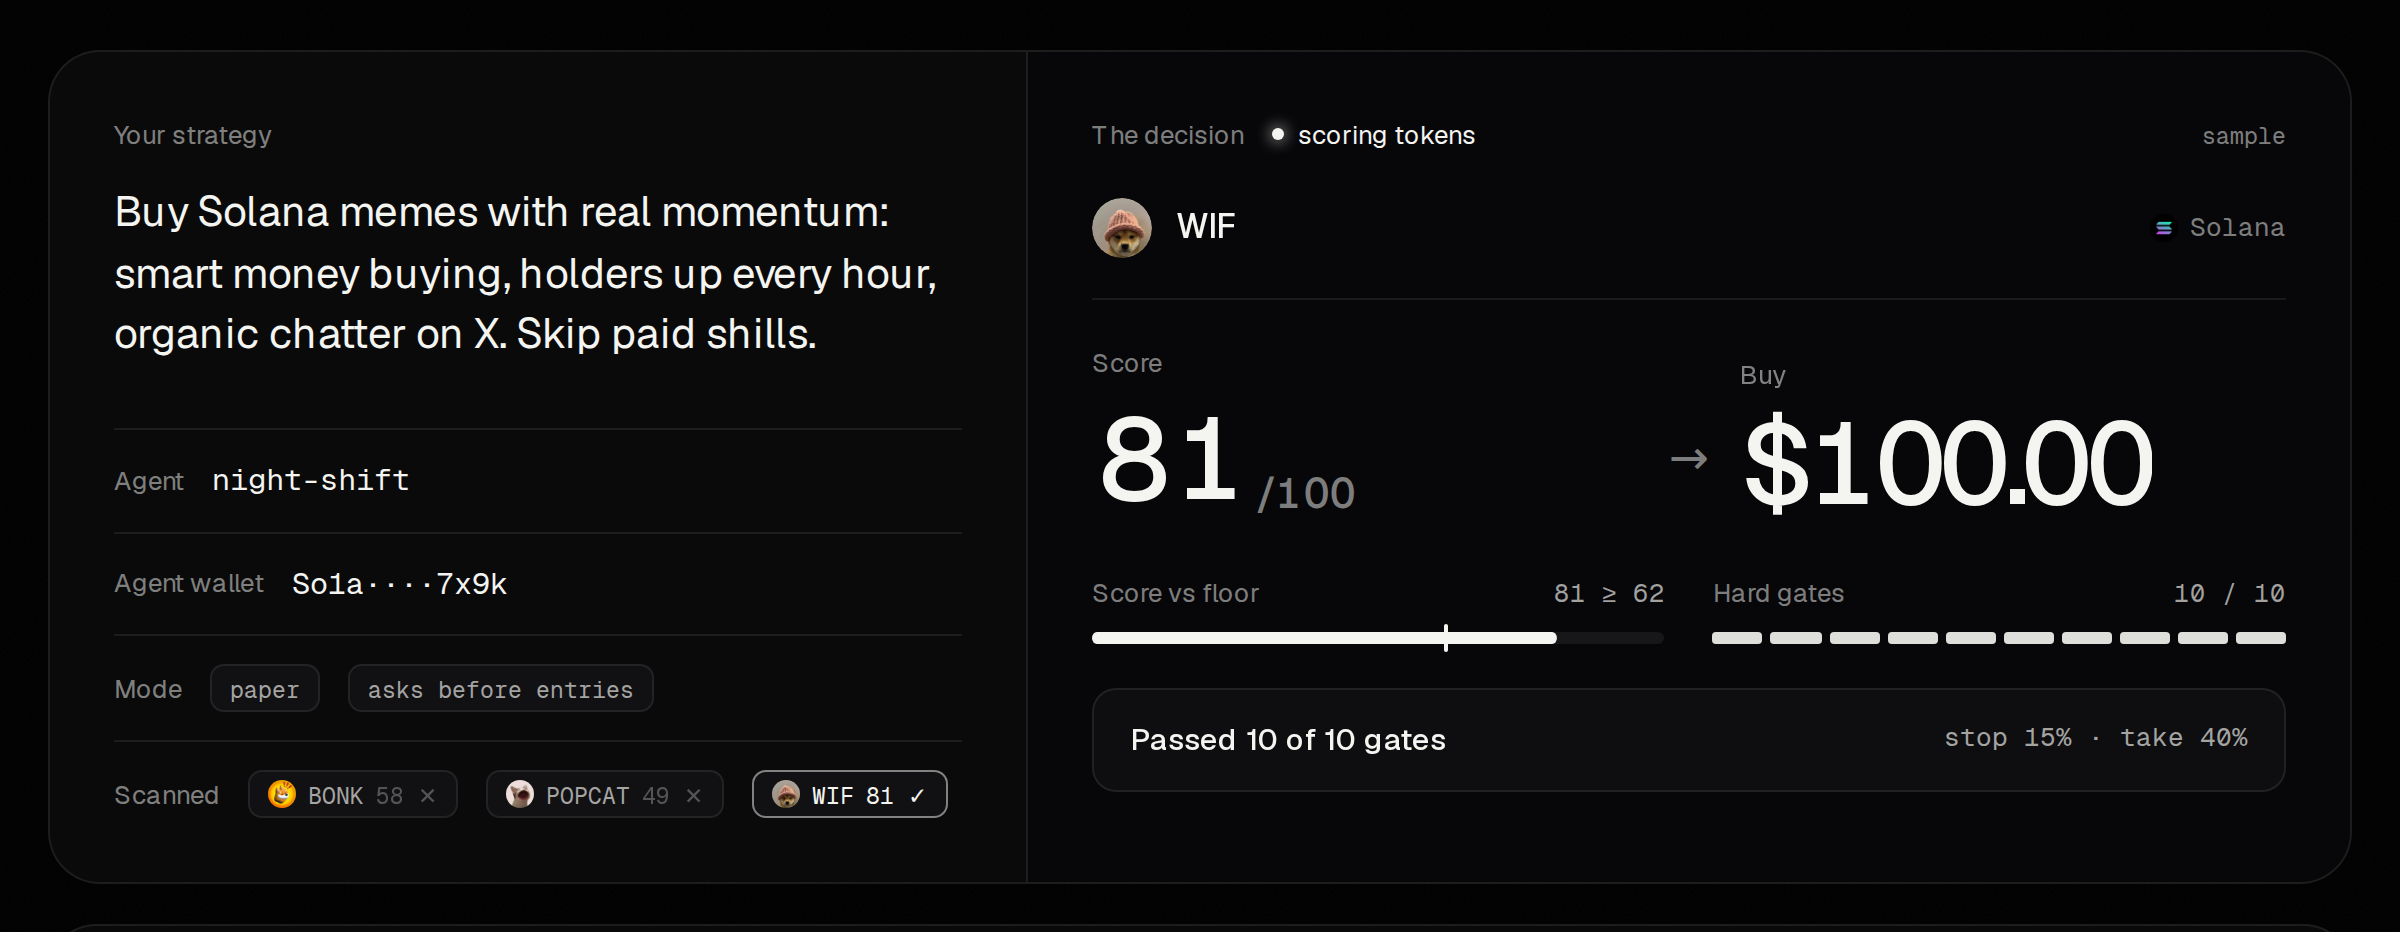
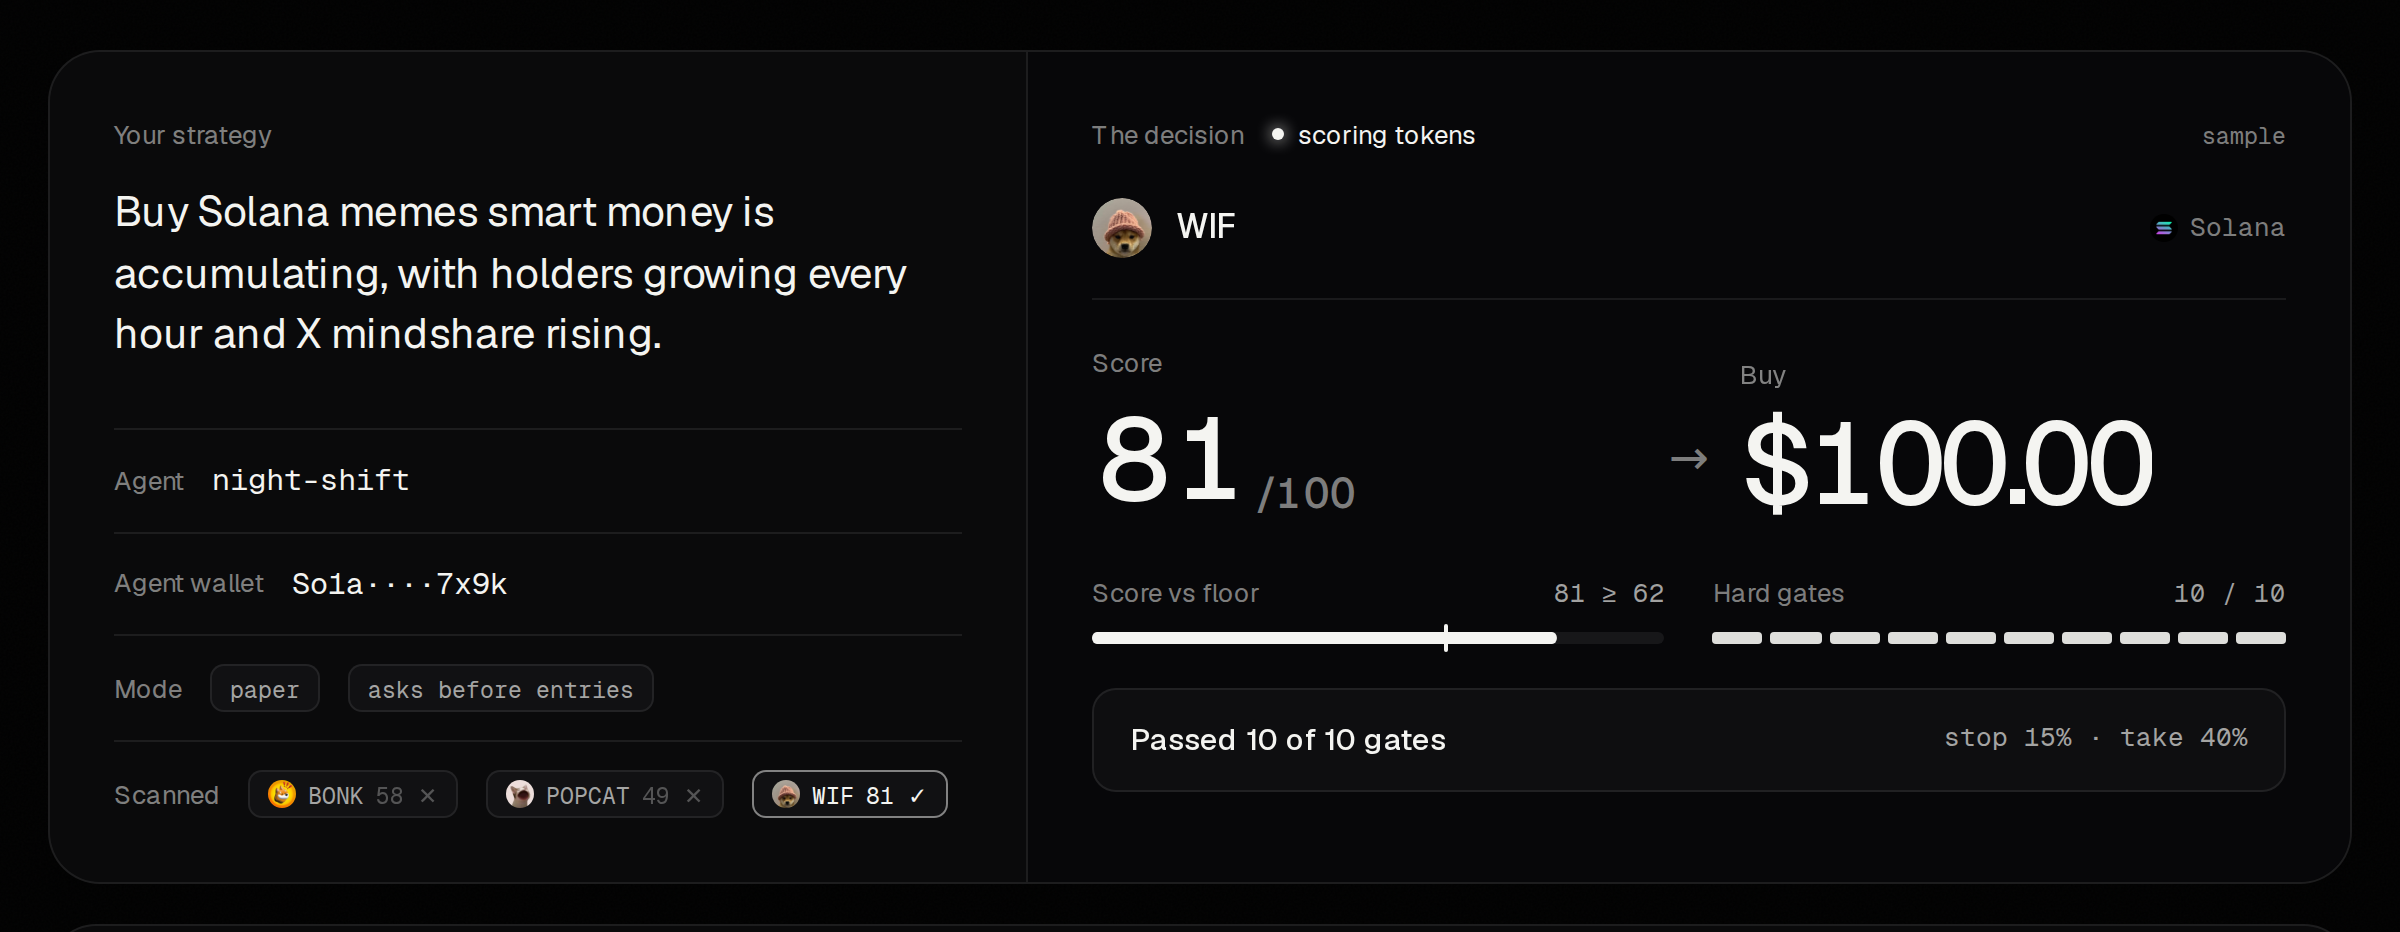
docs(pitch): product prompt drops 'skip paid shills'
New sample strategy: 'Buy Solana memes smart money is accumulating, with
holders growing every hour and X mindshare rising.' Three signals the
agent buys data for; exits stay as settings.

Claude-Session: https://claude.ai/code/session_01C63X7bmiYFRUvieQLSha7b

Changed region(s): [[0.0312, 0.28, 0.4062, 0.3112], [0.0312, 0.3423, 0.3438, 0.3734], [0.1875, 0.2178, 0.375, 0.2489]]

diff --git a/docs/pitch/pitch-3min.md b/docs/pitch/pitch-3min.md
@@ -13,7 +13,7 @@ Today, traders have no edge. In twenty twenty-four, nine in ten pump.fun traders
 With Tocker, it takes one line of English. The edge: your agent buys data per call, and ten hard gates in code can veto any buy. The rails: wallet, data, inference and execution in one integration, hosted around the clock.
 
 ## product
-Here's a sample run. You write the thesis: Solana memes with real momentum, smart money buying, holders up every hour, organic chatter, no paid shills. Stop and take-profit are settings, not prose. Your agent skips BONK and POPCAT, below the floor. WIF scores eighty-one and clears all ten gates: a hundred-dollar buy, exits enforced in code. [pause] I was emotional. An agent isn't. No FOMO, no panic, no revenge trades. It just follows your rules.
+Here's a sample run. You write the thesis: Solana memes smart money is accumulating, holders growing every hour, X mindshare rising. Stop and take-profit are settings, not prose. Your agent skips BONK and POPCAT, below the floor. WIF scores eighty-one and clears all ten gates: a hundred-dollar buy, exits enforced in code. [pause] I was emotional. An agent isn't. No FOMO, no panic, no revenge trades. It just follows your rules.
 
 ## alpha
 Rules aren't edge. Neither is AI alone. Last October, six frontier models traded real money; four lost over thirty percent. So your agent buys answers over x402, the pay-per-call standard backed by Visa and Stripe. Can I actually sell this, or is it a honeypot? About seven cents a token on Solana.
